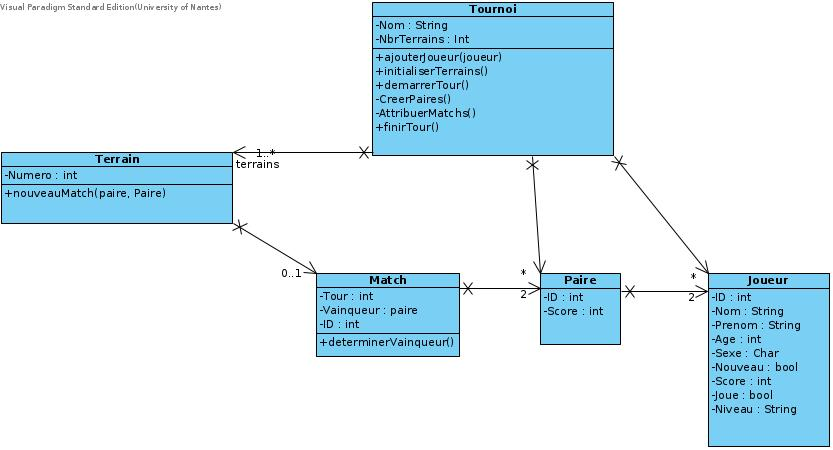
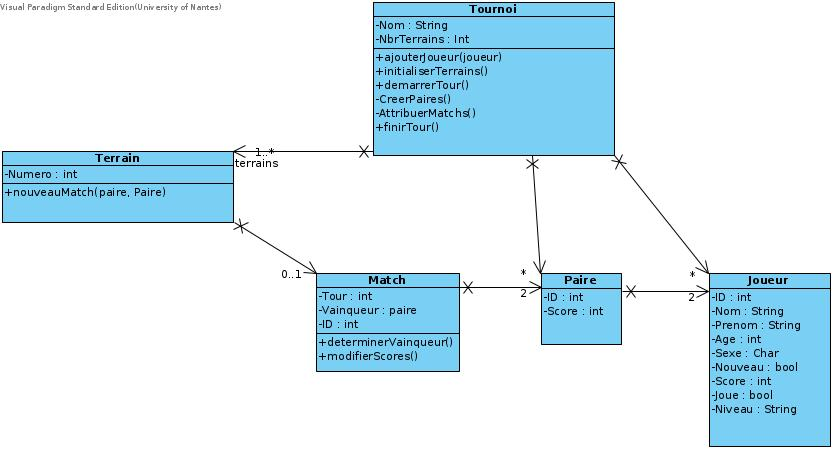
Fin première journée

diff --git a/Tournoi.java b/Tournoi.java
@@ -1,5 +1,5 @@
 package tournoi;
-
+import java.math.*;
 import liste.Liste;
 
 public class Tournoi{
@@ -18,23 +18,19 @@ public class Tournoi{
 		this.nbrTerrains= nbrTerrains;
 	}
 
-	public Liste getNewJoueur() {
+	public Liste getNouveauxJoueurs() {
 		return this.nouveauxJoueurs;
 	}
 
-	public void ajouterJoueur(Joueur joueur) {
-		
-	}
-
-	public Liste getAncienJoueur() {
+	public Liste getAnciensJoueurs() {
 		return this.anciensJoueurs;
 	}
 
-	public Liste getTerrain() {
+	public Liste getTerrains() {
 		return this.terrains;
 	}
 	
-	public void initialiserTerrain(){
+	public void initialiserTerrains(){
 		for (int i=0; i<this.nbrTerrains; i++){
 			this.terrains.add(new Terrain(i+1));
 		}
@@ -59,23 +55,35 @@ public class Tournoi{
 	
 	public void creerPaires(){
 		//On parcourt les deux listes de joueurs et on crée les paires en conséquence
-	
+		for (int i=0; i<Math.min(this.anciensJoueurs.size(),this.nouveauxJoueurs.size()); i++){
+				this.paires.add(new Paire(((Joueur)this.anciensJoueurs.get(i)),((Joueur)this.nouveauxJoueurs.get(i)),i,i));
+				((Joueur)this.anciensJoueurs.get(i)).setJoue(true);
+				((Joueur)this.nouveauxJoueurs.get(i)).setJoue(true);
+		}
 	}
 	
 	public void attribuerMatchs(){
 		Paire paire1,paire2;
 		//On parcourt les terrains et on leur attribue des matchs que l'on crée à partir des paires
 		for (int i=0; i<this.nbrTerrains; i++){
-			//paire 1 =???
-			//paire 2 =???
+			paire1=((Paire)this.paires.get(2*i));
+			paire2=((Paire)this.paires.get(2*i+1));
 			((Terrain)this.terrains.get(i)).setMatch(new Match(i+1, paire1, paire2));
 		}
 	}
 	
 	public void finirTour(){
 		//On demande le score des équipes pour chaque terrain
-		//On détermine les vainqueurs de chaque match
-		//On modifie le score des joueurs en conséquence
+		for (int i=0; i<this.nbrTerrains; i++){
+			((Terrain)this.terrains.get(i)).getMatch().getPaire1().setScore(0);
+			((Terrain)this.terrains.get(i)).getMatch().getPaire2().setScore(0);
+			//On détermine les vainqueurs de chaque match
+			((Terrain)this.terrains.get(i)).getMatch().setVainqueur(((Terrain)this.terrains.get(i)).getMatch().determinerVainqueur());
+			//On modifie le score des joueurs en conséquence
+			((Terrain)this.terrains.get(i)).getMatch().modifierScores();
+
+
+			}
 	}
 	
 }

diff --git a/Match.java b/Match.java
@@ -10,6 +10,7 @@ public class Match {
 		this.paire1 = laPaire1;
 		this.paire2 = laPaire2;
 		this.id = id;
+		this.vainqueur=null;
 	}
 
 	public Paire getPaire1(){
@@ -40,11 +41,37 @@ public class Match {
 		this.vainqueur = leGagnant;
 	}
 	
-	public void determinerVainqueur(){
+	public Paire determinerVainqueur(){
 		if(this.paire1.getScore()>this.paire2.getScore()){
-			this.vainqueur=paire1;
+			return(this.paire1);
 		}else if (this.paire1.getScore()<this.paire2.getScore()){
-			this.vainqueur=paire1;
+			return(this.paire2);
+		}
+		else{
+			return null;
+		}
+	}
+	
+	public void modifierScores(){
+		if (this.determinerVainqueur().equals(this.paire2)){
+			this.paire1.getJoueur1().setScore(this.paire1.getJoueur1().getScore()+1);
+			this.paire1.getJoueur2().setScore(this.paire1.getJoueur2().getScore()+1);
+			this.paire2.getJoueur1().setScore(this.paire2.getJoueur1().getScore()+3);
+			this.paire2.getJoueur2().setScore(this.paire2.getJoueur2().getScore()+3);
+		}
+		else{
+			if (this.determinerVainqueur().equals(this.paire1)){
+				this.paire1.getJoueur1().setScore(this.paire1.getJoueur1().getScore()+3);
+				this.paire1.getJoueur2().setScore(this.paire1.getJoueur2().getScore()+3);
+				this.paire2.getJoueur1().setScore(this.paire2.getJoueur1().getScore()+1);
+				this.paire2.getJoueur2().setScore(this.paire2.getJoueur2().getScore()+1);
+			}
+			else {
+				this.paire1.getJoueur1().setScore(this.paire1.getJoueur1().getScore()+2);
+				this.paire1.getJoueur2().setScore(this.paire1.getJoueur2().getScore()+2);
+				this.paire2.getJoueur1().setScore(this.paire2.getJoueur1().getScore()+2);
+				this.paire2.getJoueur2().setScore(this.paire2.getJoueur2().getScore()+2);
+			}
 		}
 	}
 

diff --git a/Joueur.java b/Joueur.java
@@ -63,4 +63,21 @@ public class Joueur {
 	public String toString(){
 		return (""+this.id+" "+this.prenom+" "+this.nom);
 	}
+	
+	public void setJoue(boolean bool){
+		this.joue=bool;
+	}
+	
+	public void setScore(int score){
+		this.score=score;
+	}
+	
+	public boolean equals(Object o){
+		if (o instanceof Joueur){
+			return (this.id==((Joueur)o).id
+					&& this.nom.equals(((Joueur)o).nom)
+					&& this.prenom.equals(((Joueur)o).prenom));		
+		}
+		else return false;
+	}
 }

diff --git a/Paire.java b/Paire.java
@@ -54,5 +54,14 @@ public class Paire {
 		this.score = score;
 	}
 
+	public boolean equals(Object o){
+		if (o instanceof Paire){
+			return (this.joueur1.equals(((Paire)o).joueur1)
+					&& this.joueur2.equals(((Paire)o).joueur2));		
+		}
+		else {
+			return false;
+		}
+	}
 
 }

diff --git a/Terrain.java b/Terrain.java
@@ -29,9 +29,4 @@ public class Terrain{
   public Match getMatch(){
     return this.match;
   }
- 
-  //Attribue un nouveau match à un terrain	
-  public void nouveauMatch(Paire laPaire1, Paire laPaire2){
-	this.match = new Match(this.numero, laPaire1, laPaire2);
-  }
 }
